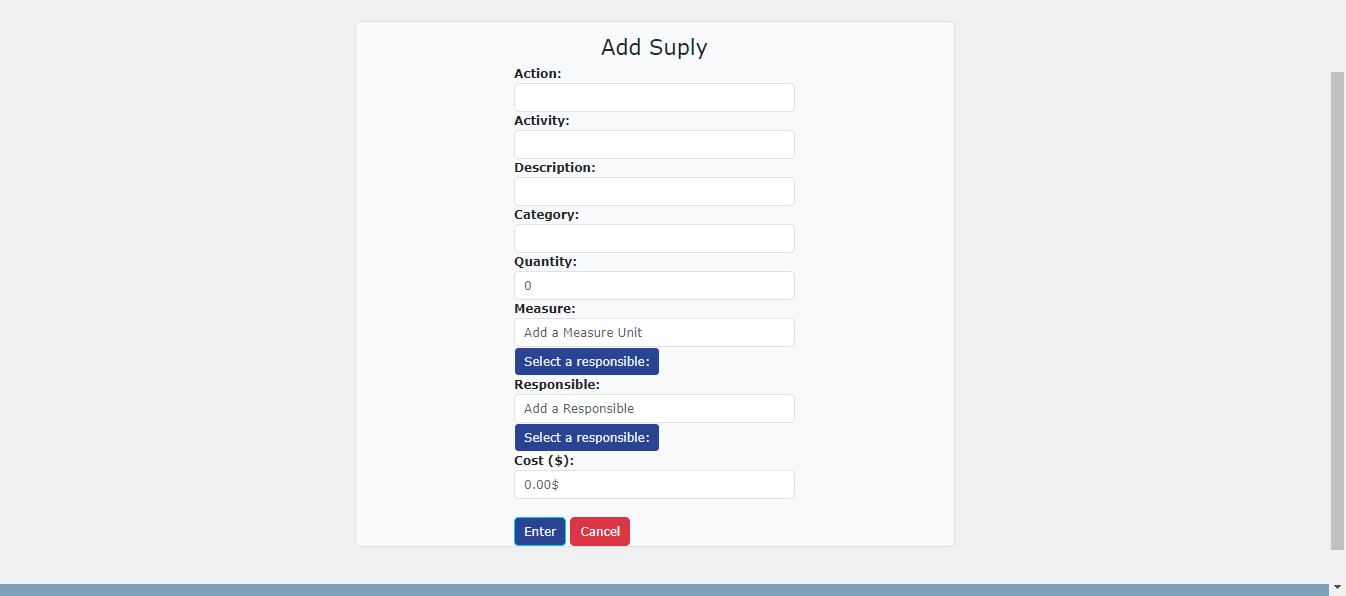
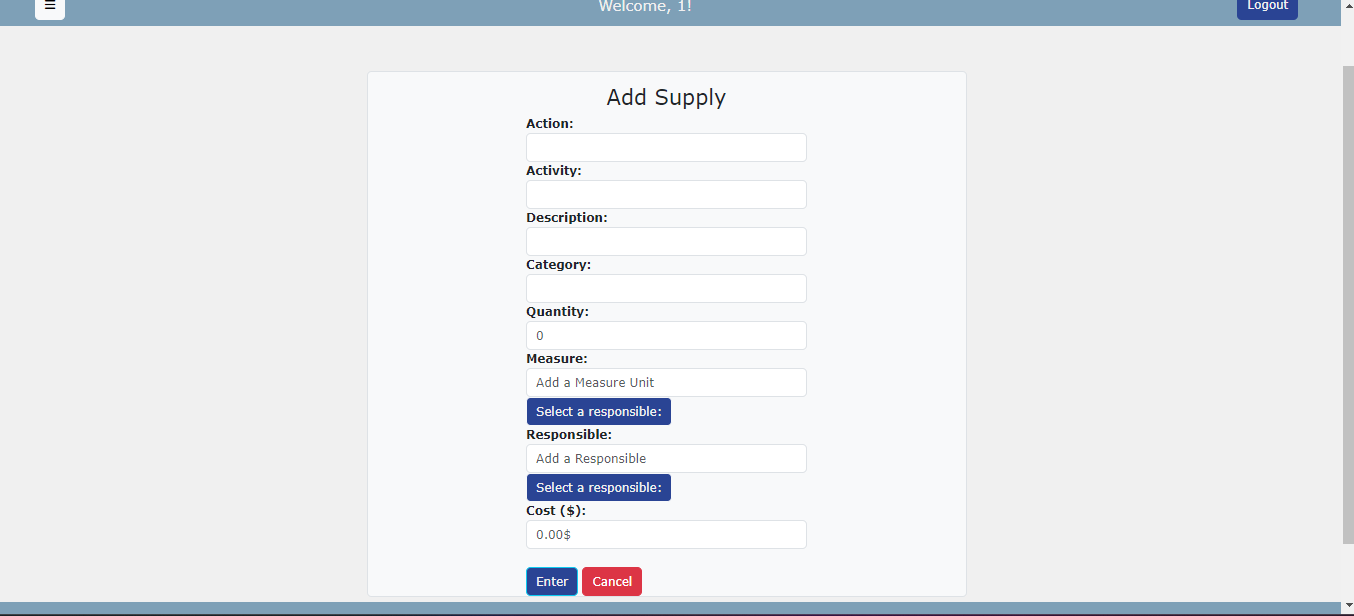
error visual y mas fotos

diff --git a/src/routes/ActionPlan/action_plan_details.py b/src/routes/ActionPlan/action_plan_details.py
@@ -228,9 +228,9 @@ def new_supply():
     supply = None
     if supply_to_edit:
         supply = db.session.query(MaterialsSupplies).filter_by(id=supply_to_edit).first()
-        title = 'Edit Suply'
+        title = 'Edit Supply'
     else:
-        title = 'Add Suply'
+        title = 'Add Supply'
 
     return render_template('action_plans/new_supply.html', 
         context={

diff --git a/tests/README.md b/tests/README.md
@@ -18,3 +18,7 @@ Los siguientes ejemplos asumen que la terminal se encuentra en el directorio act
 #### Ejecutar una prueba especifica de un modulo en especifico
 
 `python3 -m unittest Tests_Department.py -k test_remove_department`
+
+
+python -m unittest Tests_Measure.py
+python -m unittest Tests_Action_Plan.py
